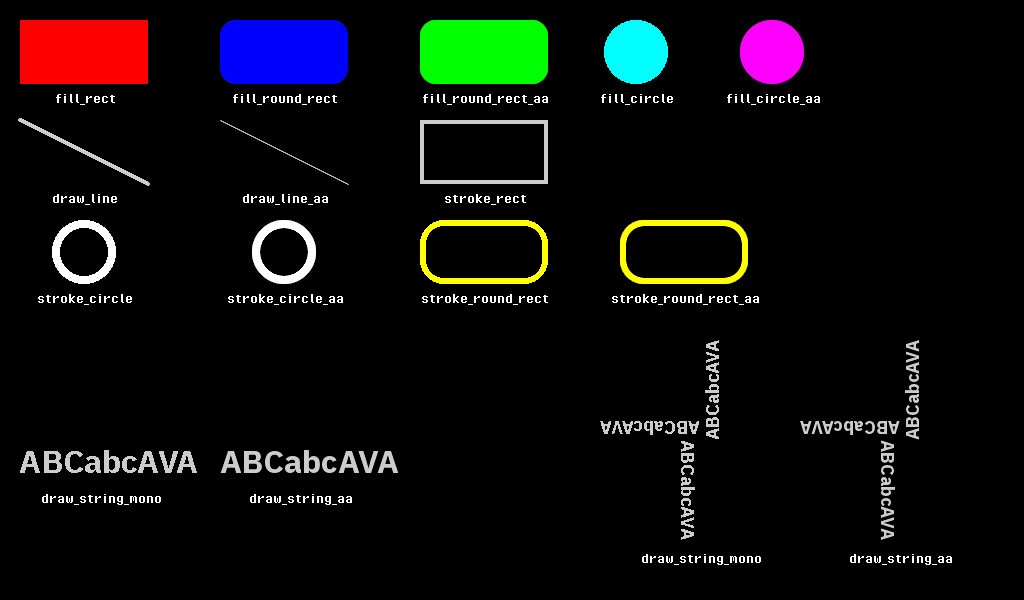
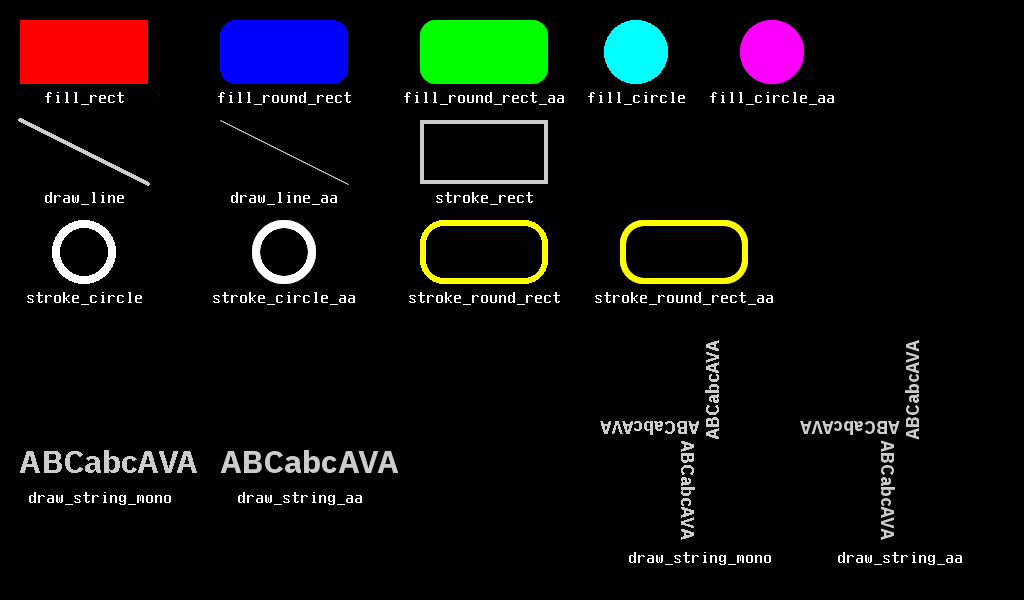
.

diff --git a/examples/drawingapi/example_drawingapi.cpp b/examples/drawingapi/example_drawingapi.cpp
@@ -1,7 +1,7 @@
 #include "constixel.hpp"
 
-#include "fonts/pixeloperator_bold_mono.h"
-using myfont = constixel::pixeloperator_bold_mono;
+#include "fonts/pxplus_toshibasat_9x16_mono.h"
+using myfont = constixel::pxplus_toshibasat_9x16_mono;
 
 #include "fonts/ibmplexsans_bold_32_aa.h"
 using aafont = constixel::ibmplexsans_bold_32_aa;
